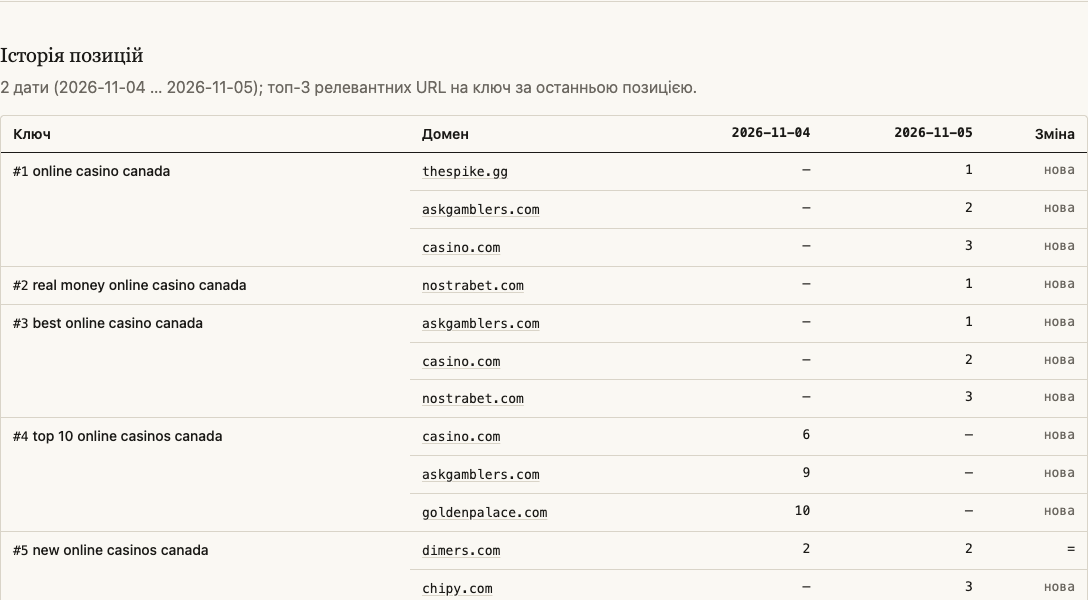
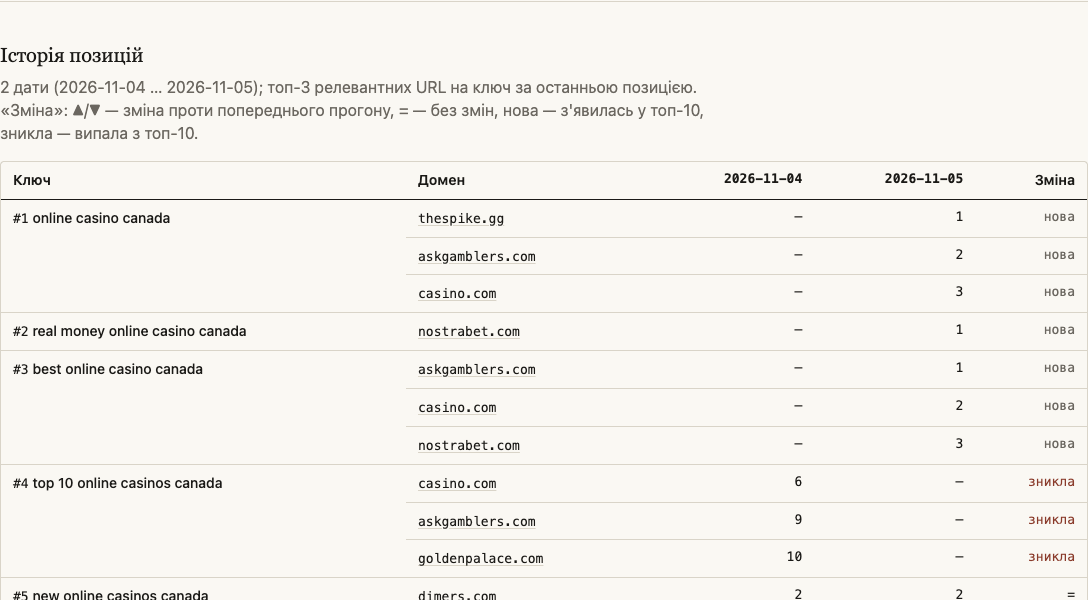
Методичка: знімок історії позицій із міткою «зникла»; CLAUDE.md — стан і аномалія видачі 05.11

diff --git a/CLAUDE.md b/CLAUDE.md
@@ -10,8 +10,8 @@
 
 ▶ І8 — README, вартість, методичка, презентація, здача
 
-**Стан на 2026-11-05 10:36 (перший автоматичний ранок).** Здано 2026-11-04 13:50. 2026-11-05 GitHub не створив жодного `schedule`-run (крони стояли на `:00`/`:30`; напередодні ті самі крони спрацювали із затримкою ≈ 8 год) — Андрій запустив `gh workflow run daily.yml` о 10:18: 60 URL, 34 нових, $0.57, коміт бота `e38f50a`, Telegram ✅, Netlify оновлено (6 прогонів). **Незакомічено:** крони на некруглих хвилинах `7 6`, `7 7`, `41 7`, `41 8` UTC (Р-029; `docs/02`, `docs/06`, README, скіл `daily-automation`, презентація «близько 10:40», методичка «близько 09:00», «після 12:00»); UI сайту — число в барах брендів не ламається (`--share` з місцем під підпис), `overflow-wrap: break-word` на `body` (anywhere лише для помилок, презентації, `.wrap-pre`), «чому» ≈ 276 px без розривів слів, `.meta` стовпчиком, домен і чип типу з `<wbr>`, таблиця вміщається в картку 1086 px без прокрутки (перевірено в Chrome, обидві теми, консоль чиста; 360 px не перевірено). Крони `823a70a` і UI сайту `5de794a` запушено, Netlify оновлено. Тести 160, `node --test` 20, ruff і `docs_lint` чисті. Відоме обмеження — повнота брендів ≈ 50 % (план v3 у `docs/03`).
-**Відкрите:** 1) «фіксуй» і push знімків методички (`site/guide/img/`, перезнято 10:40) і `docs/10` з 6 прогонів (`/cost` 10:5x: разом $3.83, щоденний ≈ $0.54) + README; 2) 2026-11-06 ранок: `gh run list --workflow daily.yml --limit 5` — узимку run о 06:07 UTC «Ще не 09:00», о 07:07 UTC — прогін; якщо до ≈ 11:00 Київ run немає — `gh workflow run daily.yml` (без `force`); 3) v3 розмітки (бренди/контакти) — за рішенням Андрія. Старт: `/status`.
+**Стан на 2026-11-05 10:36 (перший автоматичний ранок).** Здано 2026-11-04 13:50. 2026-11-05 GitHub не створив жодного `schedule`-run (крони стояли на `:00`/`:30`; напередодні ті самі крони спрацювали із затримкою ≈ 8 год) — Андрій запустив `gh workflow run daily.yml` о 10:18: 60 URL, 34 нових, $0.57, коміт бота `e38f50a`, Telegram ✅, Netlify оновлено (6 прогонів). **Незакомічено:** крони на некруглих хвилинах `7 6`, `7 7`, `41 7`, `41 8` UTC (Р-029; `docs/02`, `docs/06`, README, скіл `daily-automation`, презентація «близько 10:40», методичка «близько 09:00», «після 12:00»); UI сайту — число в барах брендів не ламається (`--share` з місцем під підпис), `overflow-wrap: break-word` на `body` (anywhere лише для помилок, презентації, `.wrap-pre`), «чому» ≈ 276 px без розривів слів, `.meta` стовпчиком, домен і чип типу з `<wbr>`, таблиця вміщається в картку 1086 px без прокрутки (перевірено в Chrome, обидві теми, консоль чиста; 360 px не перевірено). Запушено: крони `823a70a`, UI сайту `5de794a`, знімки методички `2b04be2`, вартість із 6 прогонів `e325ef6` (разом $3.83, щоденний ≈ $0.54), «зникла» в історії позицій `f70e32e` (+ легенда колонки «Зміна», 21 JS-тест); Netlify оновлено. Тести 160, `node --test` 20, ruff і `docs_lint` чисті. Відоме обмеження — повнота брендів ≈ 50 % (план v3 у `docs/03`).
+**Відкрите:** 1) **аномалія видачі 2026-11-05:** SerpApi повернув 0 результатів для ключа #4 «top 10 online casinos canada» і 1 для #2 «real money online casino canada» (учора по 10; лог run 41993437951, рядки «SERP «…»: N результатів»), а `providers/base.py` бере `organic_results or []` мовчки — `runs.errors_json` порожній, Telegram не попередив; сирі відповіді лише в артефакті Actions `raw-2026-11-05` (275 КБ, до 2026-11-12) — завантажити й подивитись за рішенням Андрія; pipeline-engineer: ключ із < 10 organic_results → запис у `errors_json` і зведення; 2) 2026-11-06 ранок: `gh run list --workflow daily.yml --limit 5` — узимку run о 06:07 UTC «Ще не 09:00», о 07:07 UTC — прогін; якщо до ≈ 11:00 Київ run немає — `gh workflow run daily.yml` (без `force`); 3) презентація — датований знімок 2026-11-04 (перезбирати лише за рішенням Андрія); 4) v3 розмітки (бренди/контакти) — за рішенням Андрія. Старт: `/status`.
 
 ## Правила
 
